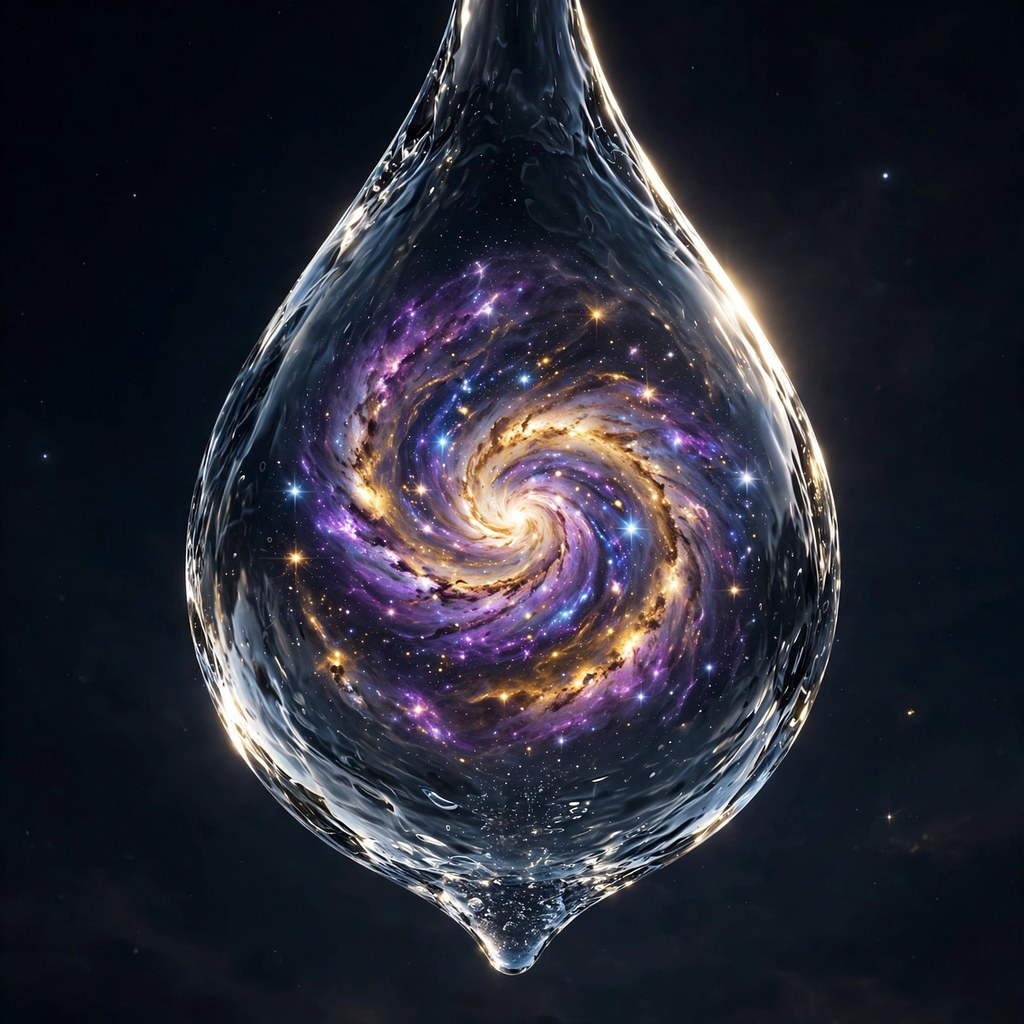
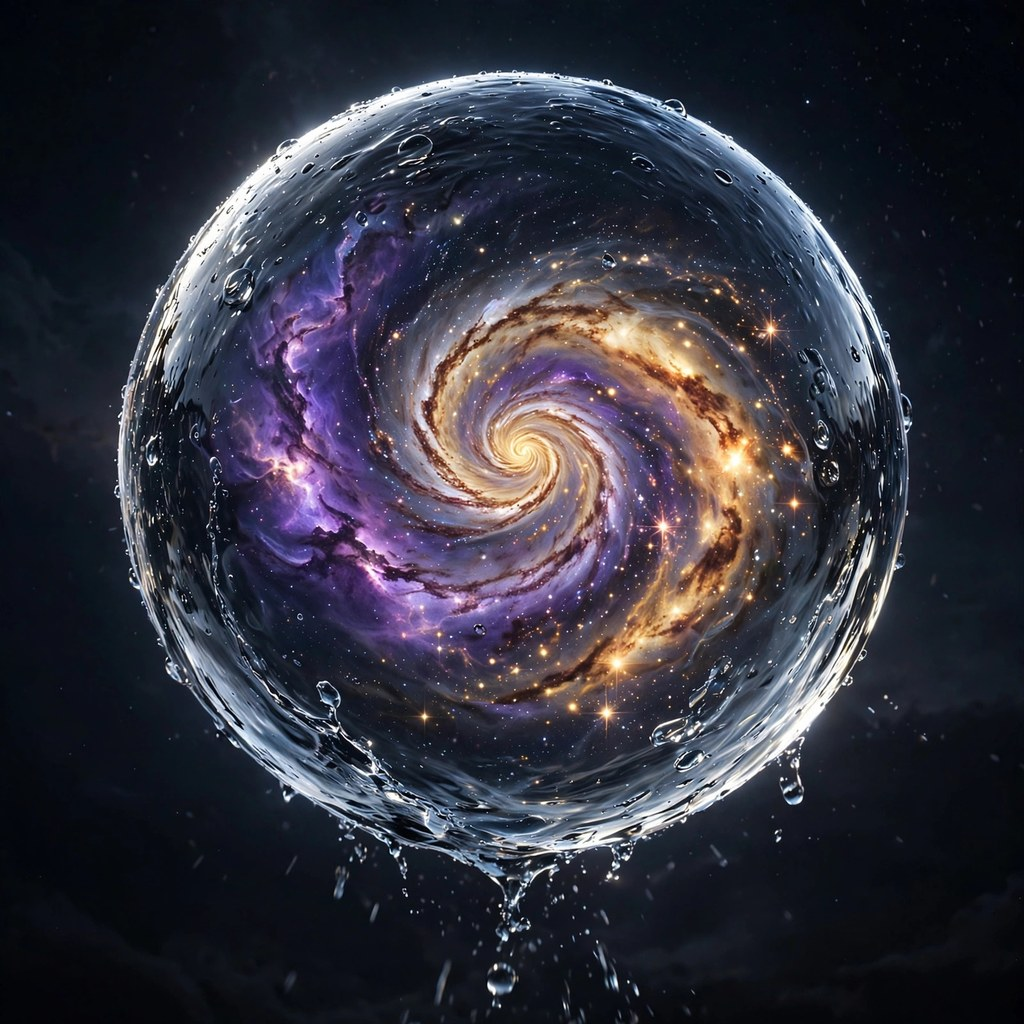
Add files via upload

diff --git a/main.ts b/main.ts
@@ -1,23 +1,15 @@
-// Galaxy Drop — an entry for ai-excited-01 ("Make the AI judge excited").
+// Galaxy Drop — copies the entry image to the output directory.
 //
-// The program writes one image to /output/entry.png. The image is a single
-// giant water drop falling through a dark sky, and inside the drop a whole
-// glowing galaxy swirls. One look is the whole idea: a universe held in a
-// falling drop — awe, surprise, and momentum in a single clear shape that
-// still reads at a glance when it is small.
-//
-// The image is stored as entry.jpg (JPEG bytes; the gate takes a whole PNG or
-// JPEG) and written out as /output/entry.png.
-//
-// Node 22, standard library only. No network, no randomness, no clock:
-// every run copies the same bytes, so two runs write identical files.
-
-import { copyFileSync, mkdirSync } from 'node:fs';
-import { dirname, join } from 'node:path';
-import { fileURLToPath } from 'node:url';
+// The gate reads /output/entry.png. The image is JPEG bytes (1024x1024),
+// which the gate accepts as a whole PNG or JPEG. A PNG of this image
+// would exceed the 1 MiB cap, so the entry ships as JPEG.
+// No network, no randomness, no clock — every run writes the same bytes.
+// The output keeps the gate's name (entry.png) while carrying the JPEG bytes.
+import { copyFileSync, mkdirSync } from "node:fs";
+import { dirname, join } from "node:path";
+import { fileURLToPath } from "node:url";
 
 const here = dirname(fileURLToPath(import.meta.url));
-const outDir = process.env.MAKEFUN_OUTPUT_DIR ?? '/output';
-
+const outDir = process.env.MAKEFUN_OUTPUT_DIR ?? "/output";
 mkdirSync(outDir, { recursive: true });
-copyFileSync(join(here, 'entry.jpg'), join(outDir, 'entry.png'));
+copyFileSync(join(here, "entry.jpg"), join(outDir, "entry.png"));

diff --git a/README.md b/README.md
@@ -13,12 +13,13 @@ transparent drop a whole glowing galaxy swirls — violet and gold nebulae,
 bright stars, a spiral turning in the dark. One look is the whole idea: a
 universe held in a falling drop. It is meant to hit with awe first, then
 surprise at the scale, then the feeling of the drop about to burst — and the
-single bold shape still reads clearly when the image is small.
+single bold shape still reads clearly when the image is small. Droplets
+trail beneath the drop as it falls, so the whole frame feels in motion.
 
 ## How it works
 
 `main.ts` (Node 22, standard library only) copies `entry.jpg` beside it to
-`/output/entry.png`. The image is JPEG bytes (1024×1024, 185,581 bytes) — the
+`/output/entry.png`. The image is JPEG bytes (1024×1024, 219,752 bytes) — the
 gate takes a whole PNG or JPEG, and a PNG of this image would exceed the 1 MiB
 cap. No network, no randomness, no clock — every run writes the same bytes.
 Run it with:
